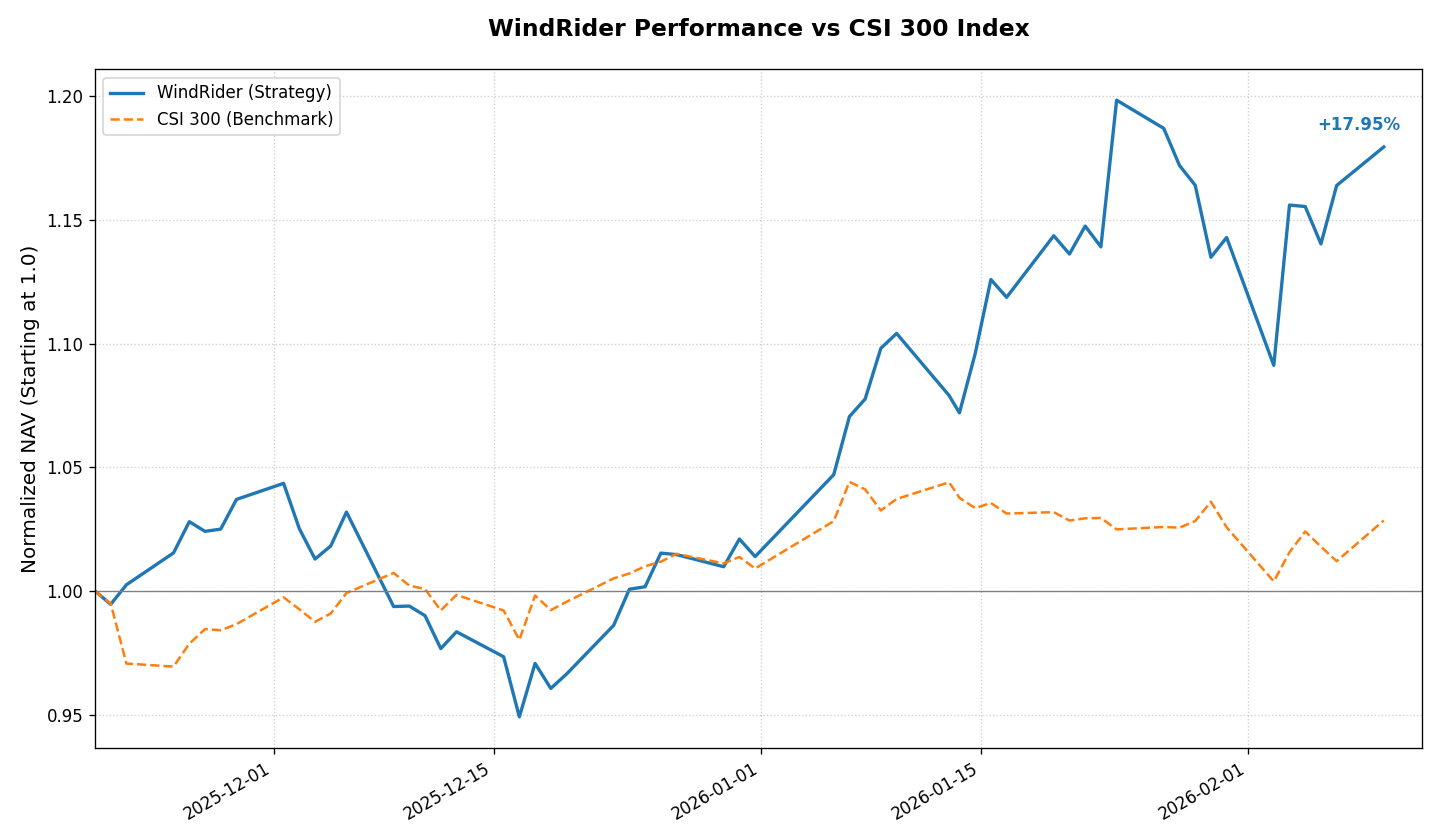
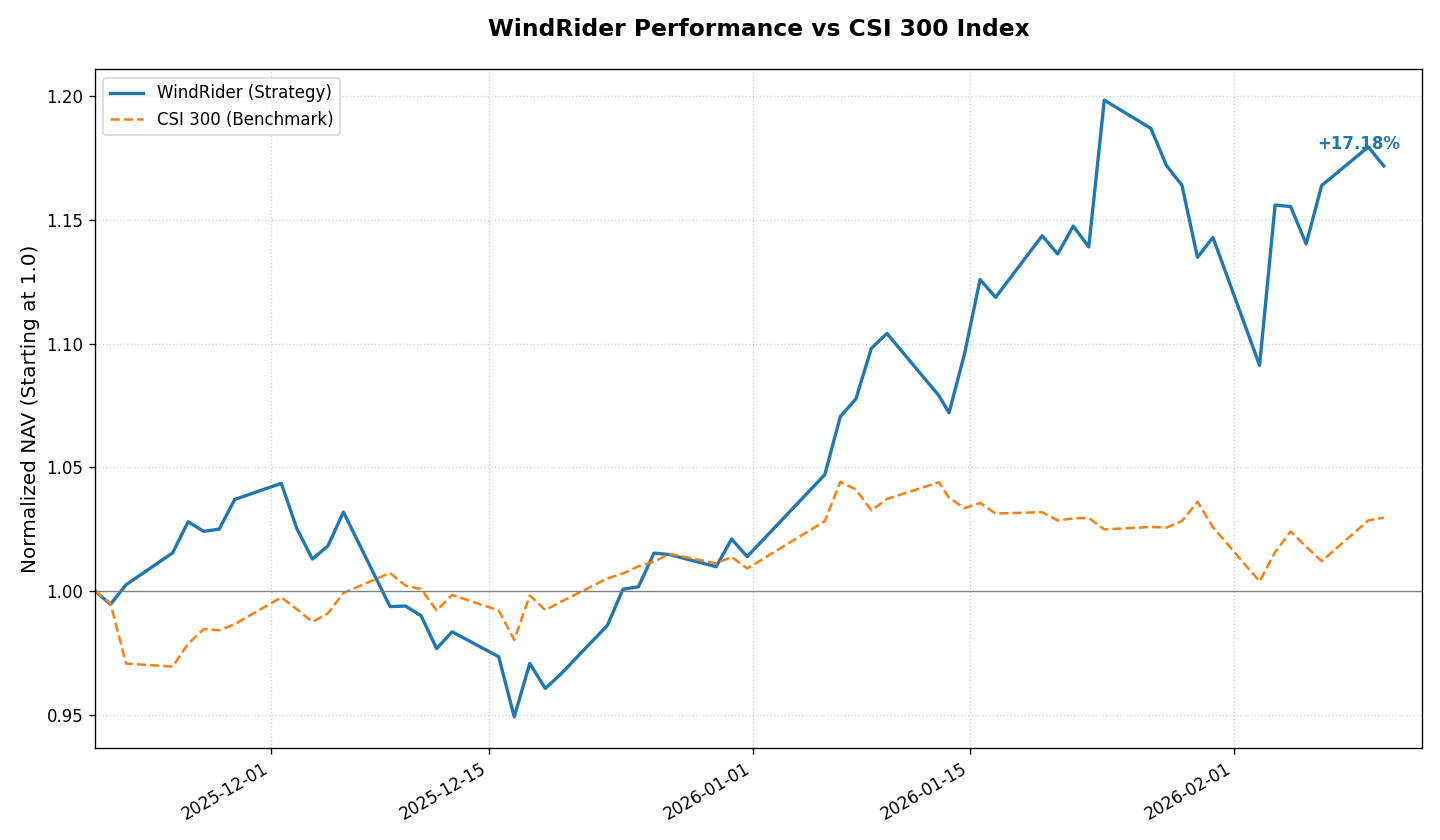
Updated Hugo site content

diff --git a/content/investment/position.md b/content/investment/position.md
@@ -1,8 +1,8 @@
 +++
 title = "持仓 Position"
 summary = "主动管理型股票组合。对标沪深300指数，采用基本面选股策略。"
-date = 2026-02-09T15:10:04+08:00
-lastmod = 2026-02-09T15:10:04+08:00
+date = 2026-02-10T15:10:04+08:00
+lastmod = 2026-02-10T15:10:04+08:00
 draft = false
 description = "WindRider Stock Portfolio"
 +++
@@ -12,30 +12,30 @@ description = "WindRider Stock Portfolio"
 
 ### 风舵股票组合 &nbsp;&nbsp;<span style="color: #E63946; font-weight: bold;">/</span><span style="color: #F1A73E; font-weight: bold;">/</span><span style="color: #000091; font-weight: bold;">/</span>&nbsp;&nbsp; 每日持仓
 WindRider Equity Portfolio <br>
-净值简报 <small>(截至: 2026-02-09)</small>
+净值简报 <small>(截至: 2026-02-10)</small>
 
 |  |  |
 | :--- | :--- |
 | **指数代码：** | WDR.EQ |
 | **成立日期：** | 2025-11-19 |
-| **最新净值：** | 1.1795 |
-| **今日涨跌：** | +1.34% |
+| **最新净值：** | 1.1718 |
+| **今日涨跌：** | -0.65% |
 
 ===========================
 
 | 核心表现 | |
 | :--- | :--- |
-| **累计收益：** | +17.95% |
-| **年化收益：** | +108.52% |
+| **累计收益：** | +17.18% |
+| **年化收益：** | +100.81% |
 | **最大回撤：** | -9.05% |
-| **基准点位：** | 4719.06 (CSI300) |
-| **策略状态：** | 已运行 83 天 |
+| **基准点位：** | 4724.30 (CSI300) |
+| **策略状态：** | 已运行 84 天 |
 
 ### 持仓明细
 | 股票名称 | 成本价 | 现价 | 盈亏 | 占比 |
 | :--- | :--- | :--- | :--- | :--- | :--- |
-| 先导智能 <small>300450</small> | 50.36 | 58.55 | <span style="color:#E63946">+16.26%</span> | 49.03% |
-| 新 和 成 <small>002001</small> | 24.84 | 29.83 | <span style="color:#E63946">+20.10%</span> | 49.96% |
+| 先导智能 <small>300450</small> | 50.36 | 57.53 | <span style="color:#E63946">+14.24%</span> | 48.49% |
+| 新 和 成 <small>002001</small> | 24.84 | 29.95 | <span style="color:#E63946">+20.58%</span> | 50.49% |
 
 <br>
 
